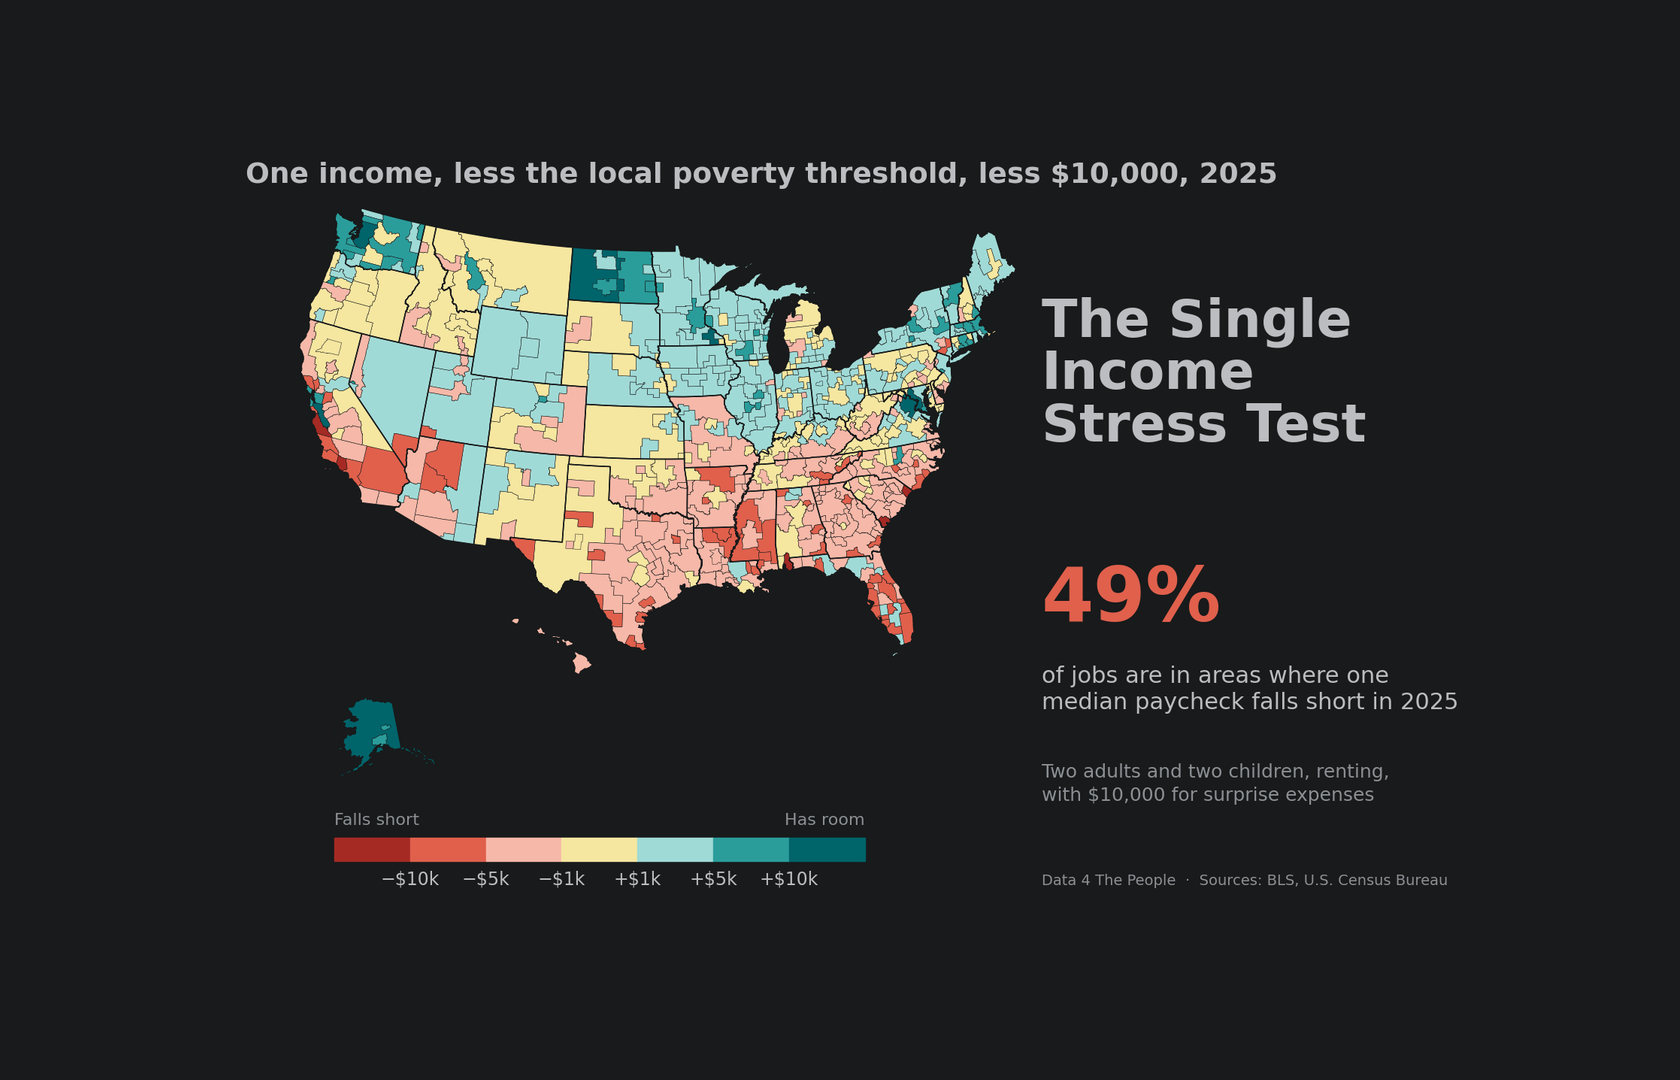
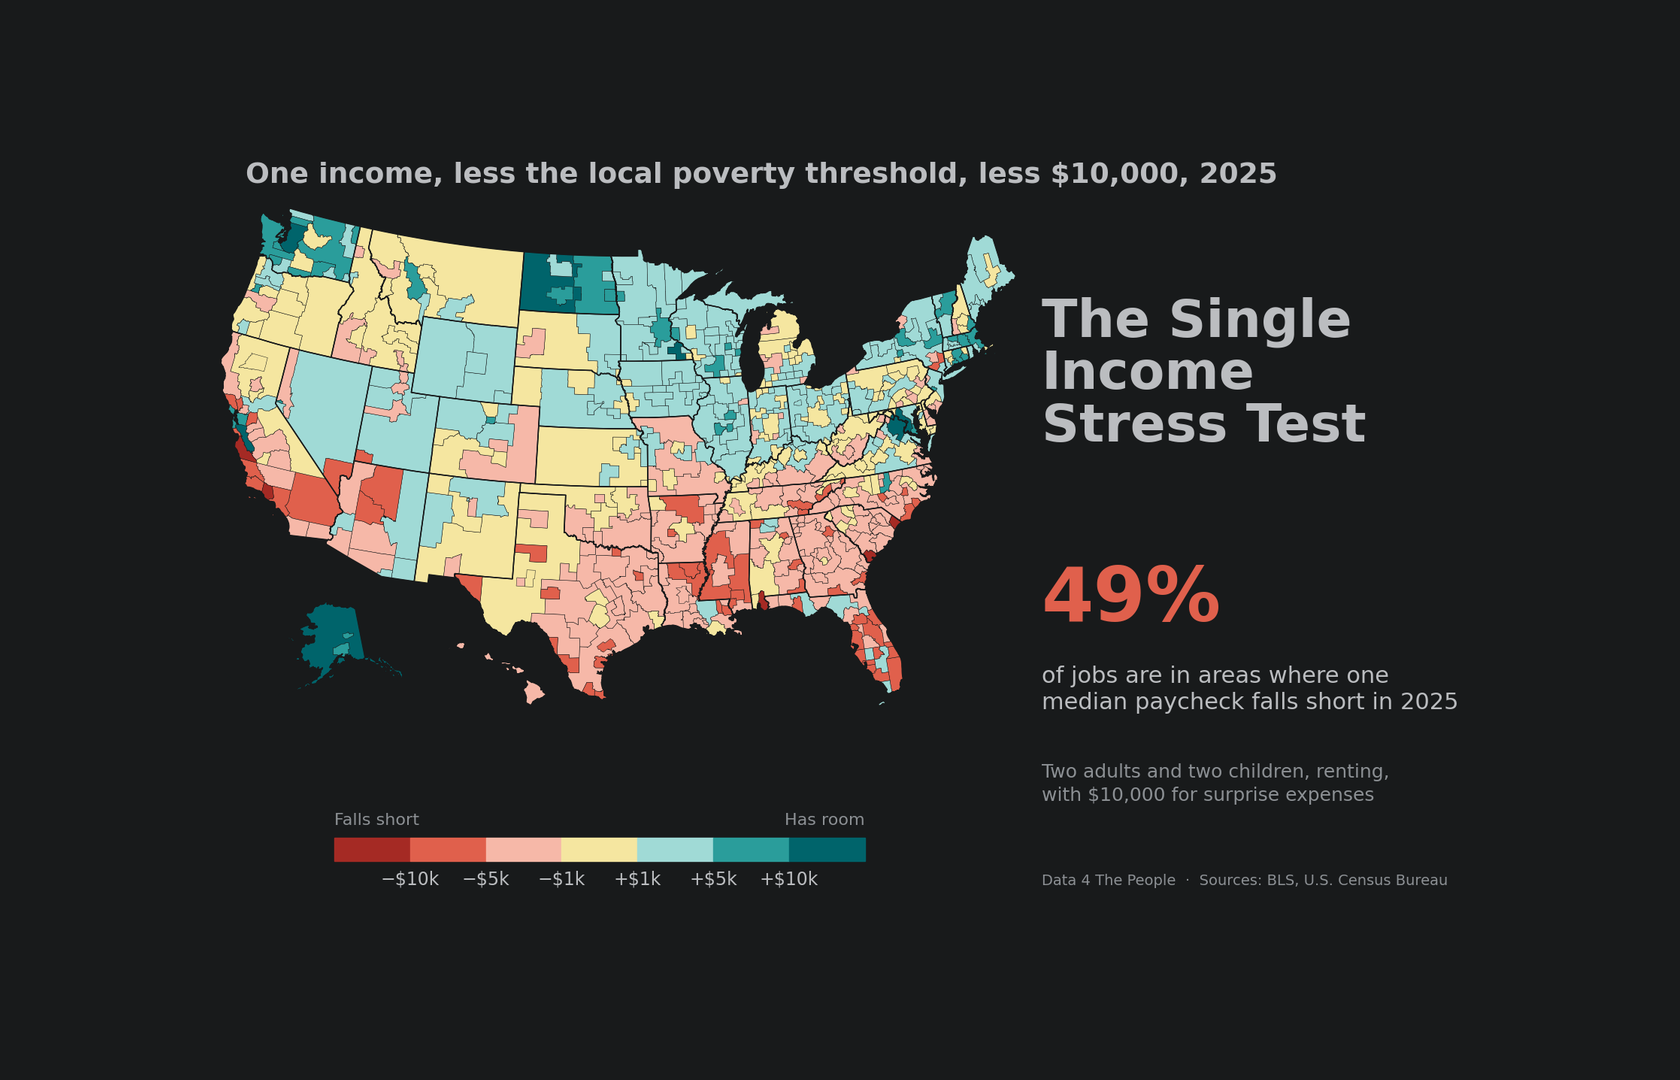
stress-test-viz: hero re-rendered with the new inset positions

Changed region(s): [[0.1238, 0.1833, 0.619, 0.6417], [0.1548, 0.55, 0.2476, 0.7028]]

diff --git a/posts/stress-test-viz/EMAIL.md b/posts/stress-test-viz/EMAIL.md
@@ -11,7 +11,7 @@ Preview:  We rebuilt the Single Income Stress Test with 11 years of data. See yo
 
 ## 1. Hero
 
-`images/stress-test-viz-hero-1680x1080.png`, linked to the post. Email export: `images/stress-test-viz-hero-email.jpg` (166 KB).
+`images/stress-test-viz-hero-1680x1080.png`, linked to the post. Email export: `images/stress-test-viz-hero-email.jpg` (180 KB).
 Alt:
 ```
 Map of U.S. metro and rural areas in 2025 on a dark background, titled One income, less the local poverty threshold, less $10,000. Areas run from deep red (short by $10,000 or more) through pale yellow (near break-even) to deep teal ($10,000 or more to spare). Red covers much of California, Florida and the Southeast; teal covers the upper Midwest and Northeast. Beside it: The Single Income Stress Test, 49% of jobs are in areas where one median paycheck falls short. Data 4 The People.

diff --git a/STATUS.md b/STATUS.md
@@ -115,3 +115,7 @@ None.
 - 2026-10-05 Step 2f confirmed by Eric. Step 2g: EMAIL.md drafted from the post
   text; hero email JPG (166 KB) and a screenshot of the live map (151 KB)
   exported. Waiting for Eric to approve or reject.
+- 2026-10-05 Eric: recreate the email hero with the new map. Hero re-rendered
+  with Alaska and Hawaii in the new position (same script, same 283 of 521 and
+  49%); email JPG re-exported (180 KB); Prismic draft re-pushed so the post's
+  hero matches. YouTube thumbnail and video unchanged.
